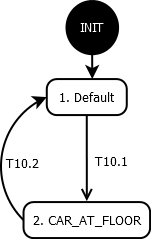
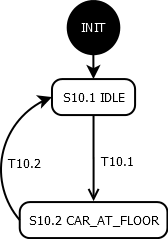
Edit - CarButtonControl & CarPositionControl states
Edited CarButtonControl and CarPositionControl state diagrams

diff --git a/portfolio/reqs/requirements2.html b/portfolio/reqs/requirements2.html
@@ -1483,7 +1483,7 @@ None
 <br>
 <p><a href="CarButtonControl_state_diagram.png"><img
  alt="pCarButtonControl_state_diagram.png" src="CarButtonControl_state_diagram.png"
- style="border: 0px solid ; width: 167px; height: 240px;"></a><br>
+ style="border: 0px solid ; width: 371px; height: 238px;"></a><br>
 </p>
 <table style="text-align: left; width: 450px;" border="1"
  cellpadding="2" cellspacing="2">
@@ -1503,6 +1503,14 @@ None
       <td style="vertical-align: top;">T9.2</td>
       <td style="vertical-align: top;">CarCall[f,b] == false &amp; &amp; mAtFloor[f,b] == true</td>
     </tr>
+    <tr>
+      <td style="vertical-align: top;">T9.3</td>
+      <td style="vertical-align: top;">Unconditional</td>
+    </tr>
+    <tr>
+      <td style="vertical-align: top;">T9.4</td>
+      <td style="vertical-align: top;">Unconditional</td>
+    </tr>
   </tbody>
 </table>
 
@@ -1520,19 +1528,25 @@ None
       </td>
     </tr>
     <tr>
-      <td style="vertical-align: top;">NO_CARCALL<br> </td>
-      <td style="vertical-align: top;">There is currently NO car call for floor f, hallway b</td>
-      <td style="vertical-align: top;">CarLight[f,b] = Off <br> 
-      mCarLight[f,b] = false <br> 
-      mCarCall[f,b] = false <br> </td>
+      <td style="vertical-align: top;">S9.1 IDLE<br> </td>
+      <td style="vertical-align: top;">Waiting for input</td>
+      <td style="vertical-align: top;">None</td>
     </tr>
-        <tr>
-      <td style="vertical-align: top;">CARCALL_PLACED<br> </td>
+    <tr>
+      <td style="vertical-align: top;">S9.2 CARCALL_PLACED<br> </td>
       <td style="vertical-align: top;">There is currently a car call PLACED for floor f, hallway b</td>
       <td style="vertical-align: top;">CarLight[f,b] = On <br> 
       mCarLight[f,b] = true <br> 
       mCarCall[f,b] = true <br> </td>
     </tr>
+    <tr>
+      <td style="vertical-align: top;">S9.3 CARCALL_SERVED<br> </td>
+      <td style="vertical-align: top;">The car call for floor f, hallway b is SERVED</td>
+      <td style="vertical-align: top;">CarLight[f,b] = Off <br> 
+      mCarLight[f,b] = false <br> 
+      mCarCall[f,b] = false <br> </td>
+    </tr>
+
   </tbody>
 </table>
 
@@ -1587,7 +1601,7 @@ CarPositionIndicator shall be commanded to display CurrentFloor.&nbsp;
 <br>
 <p><a href="CarButtonControl_state_diagram.png"><img
  alt="pCarButtonControl_state_diagram.png" src="CarPositionControl_state_diagram.png"
- style="border: 0px solid ; width: 151px; height: 239px;"></a><br>
+ style="border: 0px solid ; width: 168px; height: 239px;"></a><br>
 </p>
 <table style="text-align: left; width: 450px;" border="1"
  cellpadding="2" cellspacing="2">
@@ -1624,12 +1638,12 @@ CarPositionIndicator shall be commanded to display CurrentFloor.&nbsp;
       </td>
     </tr>
     <tr>
-      <td style="vertical-align: top;">INIT<br> </td>
-      <td style="vertical-align: top;">Default state</td>
+      <td style="vertical-align: top;">S10.1 IDLE<br> </td>
+      <td style="vertical-align: top;">Idle state</td>
       <td style="vertical-align: top;">None<br> 
     </tr>
     <tr>
-      <td style="vertical-align: top;">CAR_AT_FLOOR<br> </td>
+      <td style="vertical-align: top;">S10.2 CAR_AT_FLOOR<br> </td>
       <td style="vertical-align: top;">The car is currently at floor f, hallway b</td>
       <td style="vertical-align: top;">CarPositionIndicator = f<br> 
     </tr>
